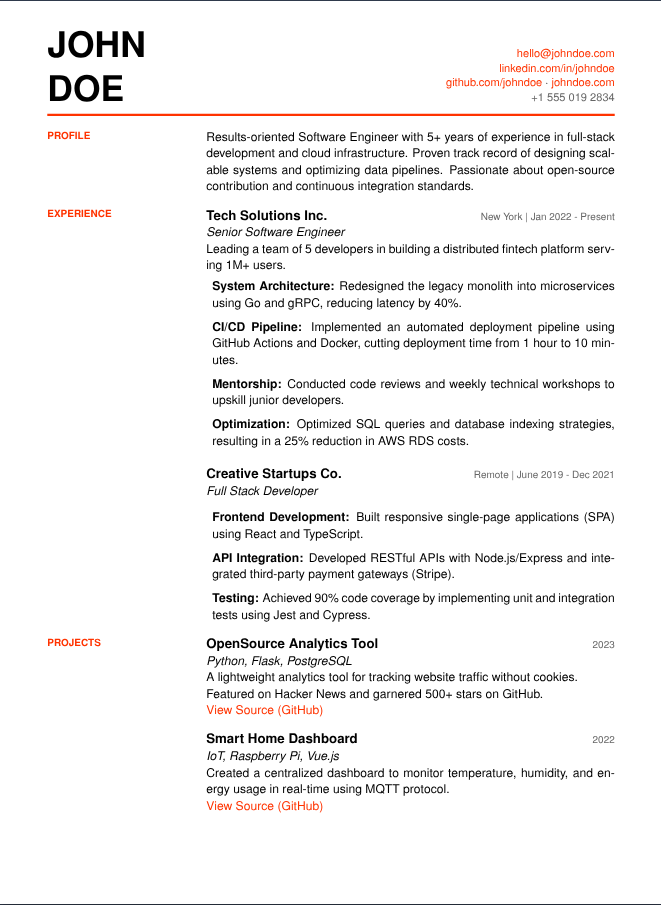
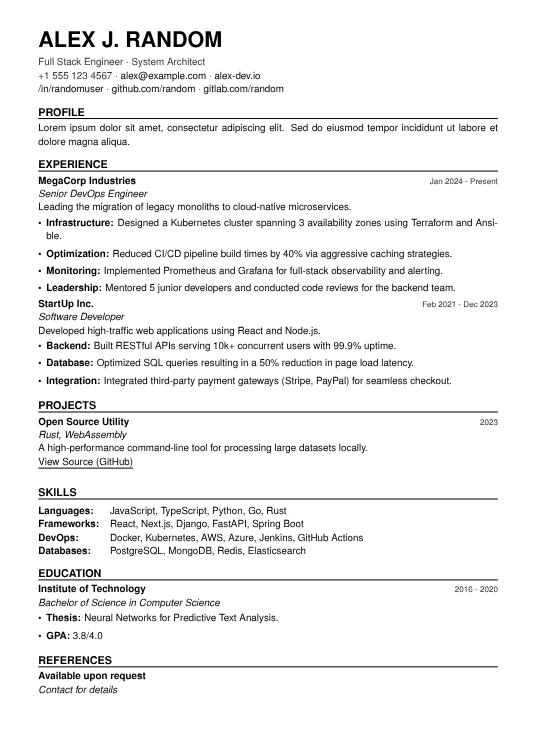
style change

Changed region(s): [[0.0598, 0.0305, 0.9271, 0.9456], [0.8972, 0.7016, 0.9271, 0.7321]]

diff --git a/cv.tex b/cv.tex
@@ -1,0 +1,117 @@
+\documentclass[11pt,a4paper]{article}
+
+% --- PACKAGES ---
+\usepackage[utf8]{inputenc}
+\usepackage[T1]{fontenc}
+\usepackage[left=1.5cm,right=1.5cm,top=1.25cm,bottom=1.25cm]{geometry}
+\usepackage{helvet}
+\usepackage{xcolor}
+\usepackage{hyperref}
+\usepackage{enumitem}
+
+% --- PROFESSIONAL SETTINGS ---
+\renewcommand{\familydefault}{\sfdefault}
+\linespread{1.1} 
+\setlength{\parindent}{0pt}
+\pagestyle{empty}
+
+% --- COLORS ---
+\definecolor{mainblack}{HTML}{000000}
+\definecolor{darkgray}{HTML}{333333}
+\definecolor{lightgray}{HTML}{555555}
+
+% --- LINK STYLES ---
+\hypersetup{
+    colorlinks=true,
+    linkcolor=mainblack,
+    urlcolor=mainblack,
+    pdfborder={0 0 0}
+}
+
+% --- COMMANDS ---
+\newcommand{\cvsection}[1]{
+    \vspace{0.4cm} 
+    \noindent
+    {\color{mainblack}\textbf{\large \MakeUppercase{#1}}}
+    \par
+    \vspace{0.1cm}
+    {\color{mainblack}\hrule height 0.5pt}
+    \vspace{0.2cm} 
+}
+
+\newcommand{\jobtitle}[2]{
+    \noindent
+    \textbf{#1} \hfill {\footnotesize \color{darkgray} #2} \\ 
+}
+
+% --- DOCUMENT ---
+\begin{document}
+
+% --- HEADER ---
+\noindent
+{\fontsize{24}{28}\selectfont \textbf{\MakeUppercase{Alex J. Random}}} \\[0.2cm]
+{\color{darkgray}
+Full Stack Engineer $\cdot$ System Architect \\
+ +1 555 123 4567  $\cdot$ \href{mailto:alex@example.com}{alex@example.com}  $\cdot$ \href{https://example.com}{alex-dev.io} \\
+\href{https://linkedin.com}{/in/randomuser} $\cdot$ \href{https://github.com}{github.com/random} $\cdot$ \href{https://gitlab.com}{gitlab.com/random}
+}
+
+% --- PROFILE ---
+\cvsection{Profile}
+Lorem ipsum dolor sit amet, consectetur adipiscing elit. Sed do eiusmod tempor incididunt ut labore et dolore magna aliqua. 
+% --- EXPERIENCE ---
+
+\cvsection{Experience}
+
+\jobtitle{MegaCorp Industries}{Jan 2024 - Present}
+\textit{Senior DevOps Engineer} \\
+Leading the migration of legacy monoliths to cloud-native microservices.
+\begin{itemize}[leftmargin=*, label={\small\textbullet}, itemsep=0pt, topsep=2pt]
+    \item \textbf{Infrastructure:} Designed a Kubernetes cluster spanning 3 availability zones using Terraform and Ansible.
+    \item \textbf{Optimization:} Reduced CI/CD pipeline build times by 40\% via aggressive caching strategies.
+    \item \textbf{Monitoring:} Implemented Prometheus and Grafana for full-stack observability and alerting.
+    \item \textbf{Leadership:} Mentored 5 junior developers and conducted code reviews for the backend team.
+\end{itemize}
+
+\jobtitle{StartUp Inc.}{Feb 2021 - Dec 2023}
+\textit{Software Developer} \\
+Developed high-traffic web applications using React and Node.js.
+\begin{itemize}[leftmargin=*, label={\small\textbullet}, itemsep=0pt, topsep=2pt]
+    \item \textbf{Backend:} Built RESTful APIs serving 10k+ concurrent users with 99.9\% uptime.
+    \item \textbf{Database:} Optimized SQL queries resulting in a 50\% reduction in page load latency.
+    \item \textbf{Integration:} Integrated third-party payment gateways (Stripe, PayPal) for seamless checkout.
+\end{itemize}
+
+% --- PROJECTS ---
+\cvsection{Projects}
+
+\jobtitle{Open Source Utility}{2023}
+\textit{Rust, WebAssembly} \\
+A high-performance command-line tool for processing large datasets locally. \\
+\href{https://github.com}{\underline{View Source (GitHub)}}
+\vspace{0.3cm}
+
+% --- SKILLS ---
+\cvsection{Skills}
+\begin{tabular}{@{}ll}
+    \textbf{Languages:} & JavaScript, TypeScript, Python, Go, Rust \\
+    \textbf{Frameworks:} & React, Next.js, Django, FastAPI, Spring Boot \\
+    \textbf{DevOps:} & Docker, Kubernetes, AWS, Azure, Jenkins, GitHub Actions \\
+    \textbf{Databases:} & PostgreSQL, MongoDB, Redis, Elasticsearch
+\end{tabular}
+
+% --- EDUCATION ---
+\cvsection{Education}
+
+\jobtitle{Institute of Technology}{2016 - 2020}
+\textit{Bachelor of Science in Computer Science}
+\begin{itemize}[leftmargin=*, label={\small\textbullet}, itemsep=0pt, topsep=2pt]
+    \item \textbf{Thesis:} Neural Networks for Predictive Text Analysis.
+    \item \textbf{GPA:} 3.8/4.0
+\end{itemize}
+
+\cvsection{References}
+\jobtitle{Available upon request}{}
+\textit{Contact for details}
+
+\end{document}

diff --git a/readme.md b/readme.md
@@ -1,56 +1,82 @@
-# Swiss Style Resume Template
+# minimalist latex cv template
 
-A minimalist, typography-focused resume template inspired by **Swiss Design** . This template prioritizes legibility, clean grids, and geometric structure, making it ideal for developers, designers, and engineers who value clarity and precision.
-![cv](./cv.png)
+a clean, professional, and ats-friendly cv/resume template based on swiss design principles. focused on typography, readability, and ease of editing.
 
+![cv preview](cv.png)
 
-## 🎨 Key Features
+## 🎨 features
 
-* **Swiss Design Principles:** Uses a clean, grid-based layout with the classic **Helvetica** font family.
-* **High Legibility:** Generous whitespace and a strong hierarchy ensure your content is easily scannable.
-* **Smart Commands:** Custom commands like `\cvsection` and `\jobtitle` make adding new entries fast and consistent.
-* **Customizable Accent:** Comes with a signature "Swiss Red" accent color that can be easily changed to match your personal brand.
+* **clean design:** minimalist layout using helvetica/arial for maximum readability.
+* **ats friendly:** single-column layout with standard fonts ensures applicant tracking systems parse it correctly.
+* **easy customization:** centralized color definitions and custom commands for sections.
+* **print ready:** professional margins and black/dark-gray color scheme for clear printing.
 
-## 🚀 How to Use
+## 🚀 quick start
 
-1.  **Open in Overleaf:** Upload `main.tex` to your project.
-2.  **Edit Personal Info:** Update the Header section in `main.tex` with your Name, Email, and Links.
-3.  **Add Content:**
-    * Use `\cvsection{Title}{Content}` to create new main sections.
-    * Use `\jobtitle{Company}{Location | Date}` for work entries.
-    * Use `\itemize` lists with the `[leftmargin=*]` option to keep bullet points aligned.
+### option 1: overleaf (recommended for beginners)
+1.  download this repository as a `.zip` file.
+2.  go to [overleaf](https://www.overleaf.com/).
+3.  click **new project** -> **upload project**.
+4.  upload the zip file and hit **recompile**.
 
-## ⚙ Configuration
+### option 2: local build
+you need a latex distribution installed (tex live, mactex, or miktex).
 
-### Changing the Accent Color
-Find the **Colors** section in the preamble and change the HTML hex code for `swis  sred`:
+1.  clone the repo:
+
+2.  compile the pdf:
+    ```bash
+    pdflatex main.tex
+    ```
+
+## 🛠 how to customize
+
+open `cv.tex` in your favorite editor (vs code, texshop, overleaf).
+
+### 1. changing personal info
+navigate to the `% --- header ---` section in the document body.
 
 ```latex
-% Change FF3300 to your preferred HEX color
-\definecolor{swissred}{HTML}{FF3300} 
+\textbf{\MakeUppercase{your name}} \\[0.2cm]
+{\color{darkgray}
+title 1 $\cdot$ title 2 \\
++1 555 123 4567 $\cdot$ \href{mailto:email@example.com}{email@example.com}
+}
 
 ```
 
-### Changing Fonts
+### 2. adding experience
 
-The template uses `helvet` (Helvetica) by default. To use a different sans-serif font, simply change the package:
+use the custom `\jobtitle` command followed by the description.
 
 ```latex
-\usepackage{helvet}   % Default
-% \usepackage{lato}   % Alternative
-% \usepackage{roboto} % Alternative
+\jobtitle{company name}{date range}
+\textit{job title} \\
+description of your role...
 
 ```
 
-### Enabling Page Numbers
+### 3. changing colors
 
-Page numbers are hidden by default. If your resume spans multiple pages and you want to show them, find and remove (or comment out) this line in the preamble:
+find the `% --- colors ---` section at the top of the file. you can use standard html hex codes.
 
 ```latex
-\pagestyle{empty} % Comment this out to show page numbers
+\definecolor{mainblack}{HTML}{000000} % main text
+\definecolor{darkgray}{HTML}{333333}  % subtitles & metadata
+\definecolor{lightgray}{HTML}{555555} % lighter accents
 
 ```
 
-## 📄 License
+### 4. adjusting margins
 
-This template is free to use for personal and commercial resumes. Attribution is appreciated but not required.
+if you need more space, adjust the geometry package settings:
+
+```latex
+\usepackage[left=1.5cm,right=1.5cm,top=1.25cm,bottom=1.25cm]{geometry}
+
+```
+
+## 📄 license
+
+this project is open source and available under the mit license.
+feel free to use it for your own cv!
